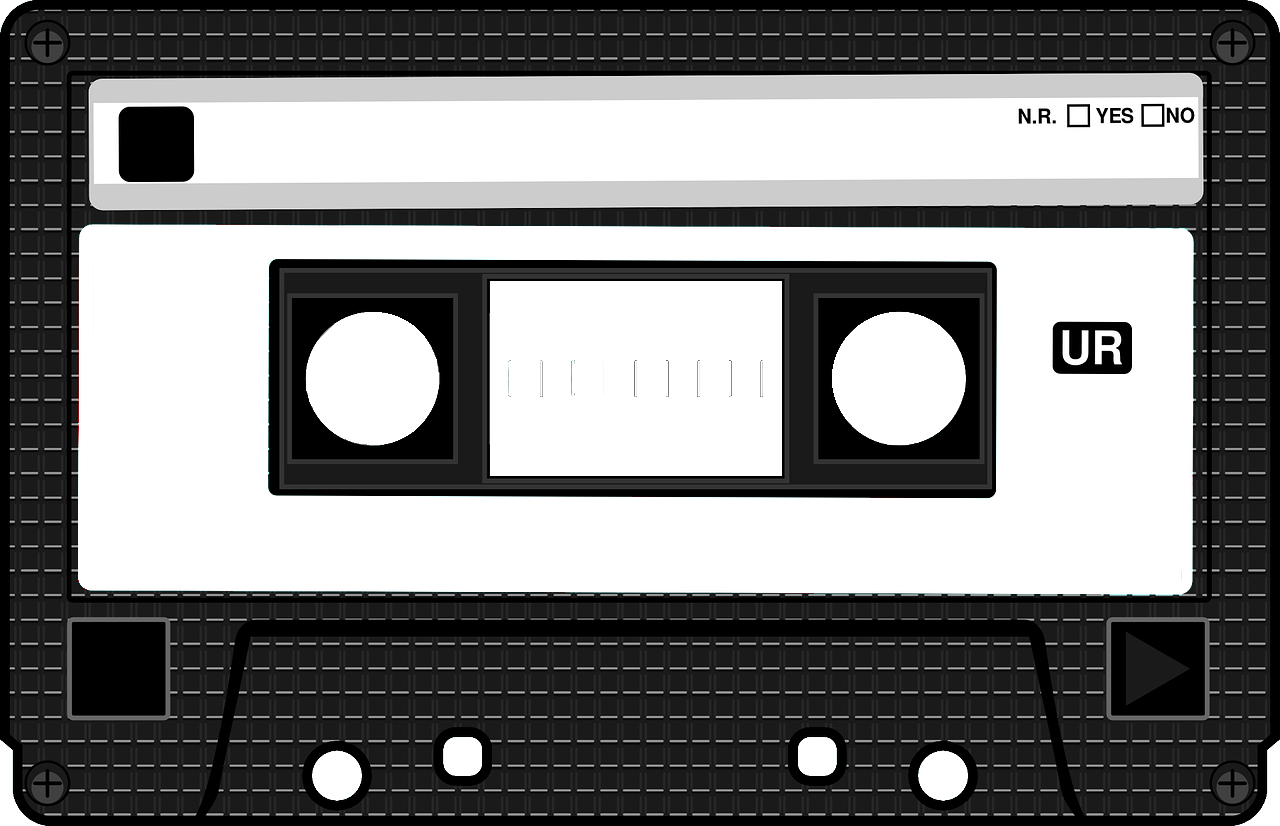
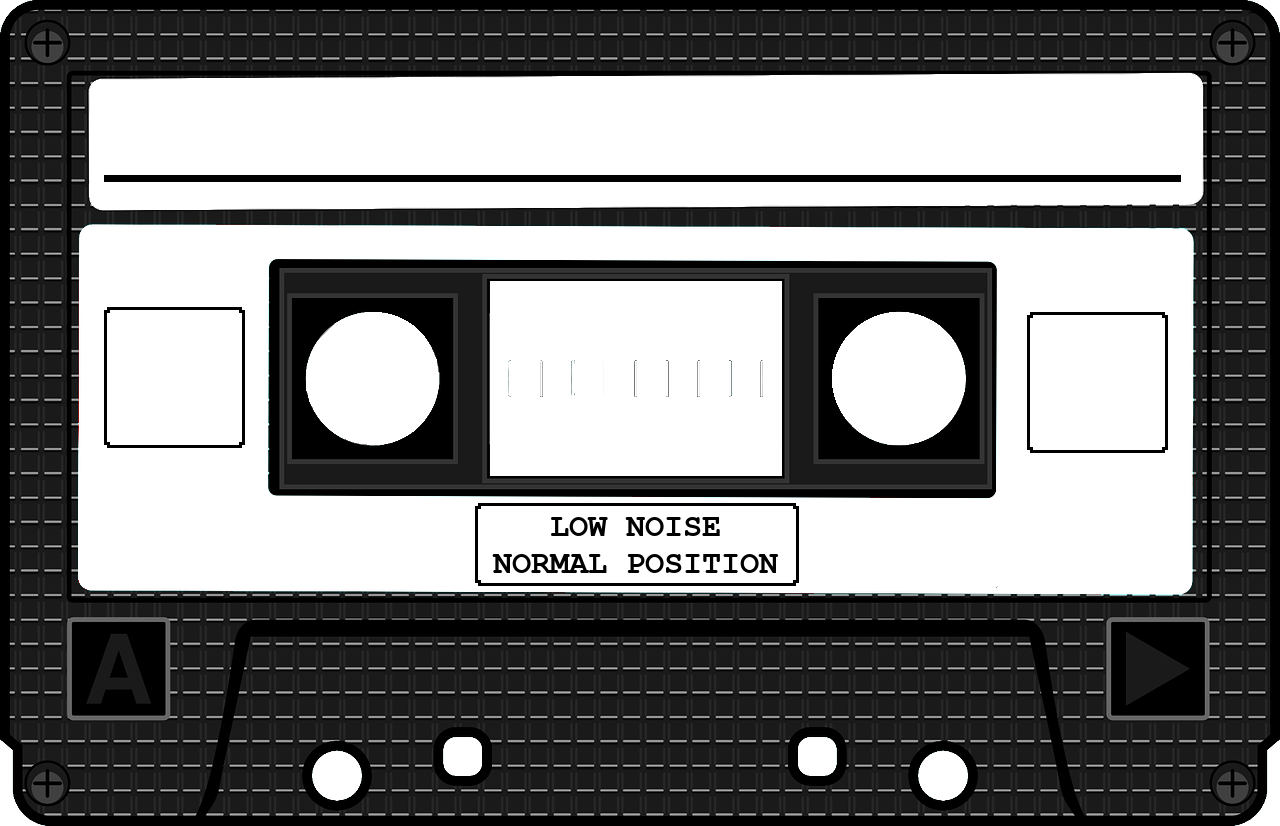
Redesigned cassette image

diff --git a/cassettePlayerSimulator/CassetteControl.cs b/cassettePlayerSimulator/CassetteControl.cs
@@ -207,15 +207,15 @@ namespace cassettePlayerSimulator
                 e.Graphics.DrawImage(imgScaled, cassetteOffset);
 
                 TextRenderer.DrawText(e.Graphics, loadedTapeSide.Label, tapeLabelFont,
-                    scaler.S(new Rectangle(266, 153, 813, 70)),
-                    Color.Black, TextFormatFlags.VerticalCenter | TextFormatFlags.Left | TextFormatFlags.EndEllipsis);
+                    scaler.S(new Rectangle(180, 153, 1070, 70)),
+                    Color.Black, TextFormatFlags.VerticalCenter | TextFormatFlags.HorizontalCenter | TextFormatFlags.Left | TextFormatFlags.EndEllipsis);
 
                 TextRenderer.DrawText(e.Graphics, (loadedTapeSide.Parent.SideA == loadedTapeSide) ? "A" : "B", tapeSideFont,
-                    scaler.S(new Rectangle(180, 142, 90, 90)),
-                    Color.White, TextFormatFlags.VerticalCenter | TextFormatFlags.HorizontalCenter | TextFormatFlags.NoPadding);
+                    scaler.S(new Rectangle(190, 375, 90, 90)),
+                    Color.Black, TextFormatFlags.VerticalCenter | TextFormatFlags.HorizontalCenter | TextFormatFlags.NoPadding);
 
-                TextRenderer.DrawText(e.Graphics, ((int)Math.Round(loadedTapeSide.Parent.Length / 900.0f) * 30).ToString(), tapeSideFont,
-                    scaler.S(new Rectangle(1112, 410, 90, 90)),
+                TextRenderer.DrawText(e.Graphics, "C" + ((int)Math.Round(loadedTapeSide.Parent.Length / 900.0f) * 30).ToString(), tapeSideFont,
+                    scaler.S(new Rectangle(1100, 375, 120, 90)),
                     Color.Black, TextFormatFlags.VerticalCenter | TextFormatFlags.HorizontalCenter | TextFormatFlags.NoPadding);
             }
 
